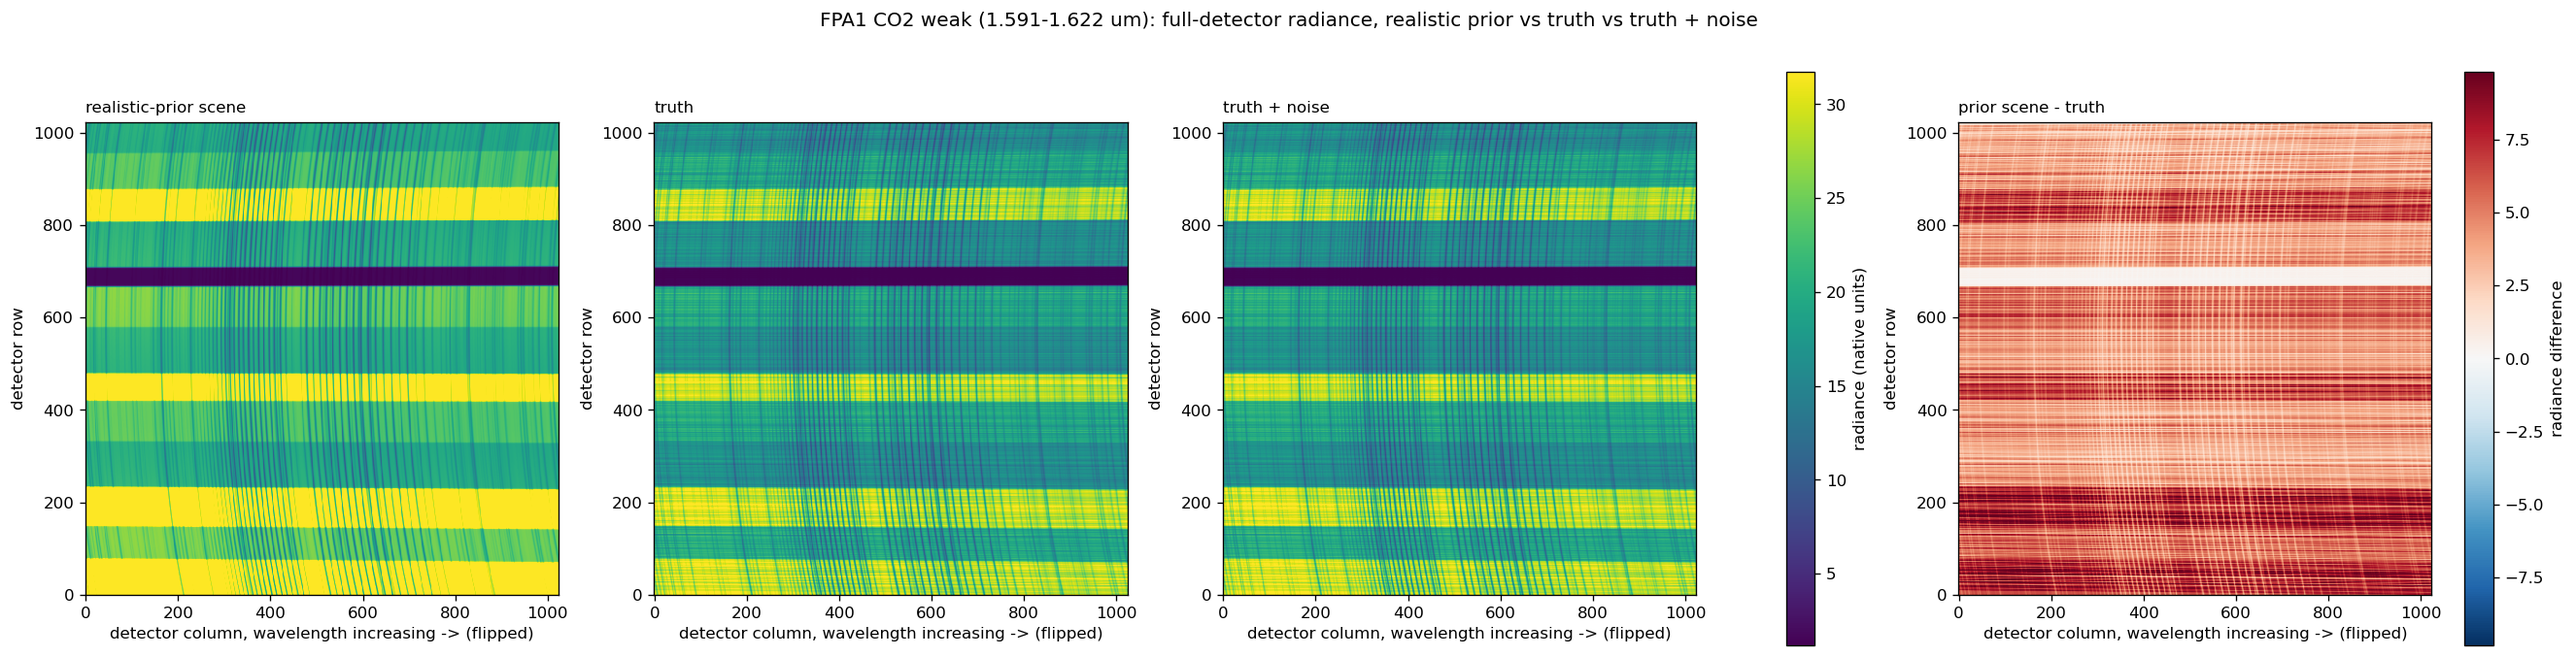
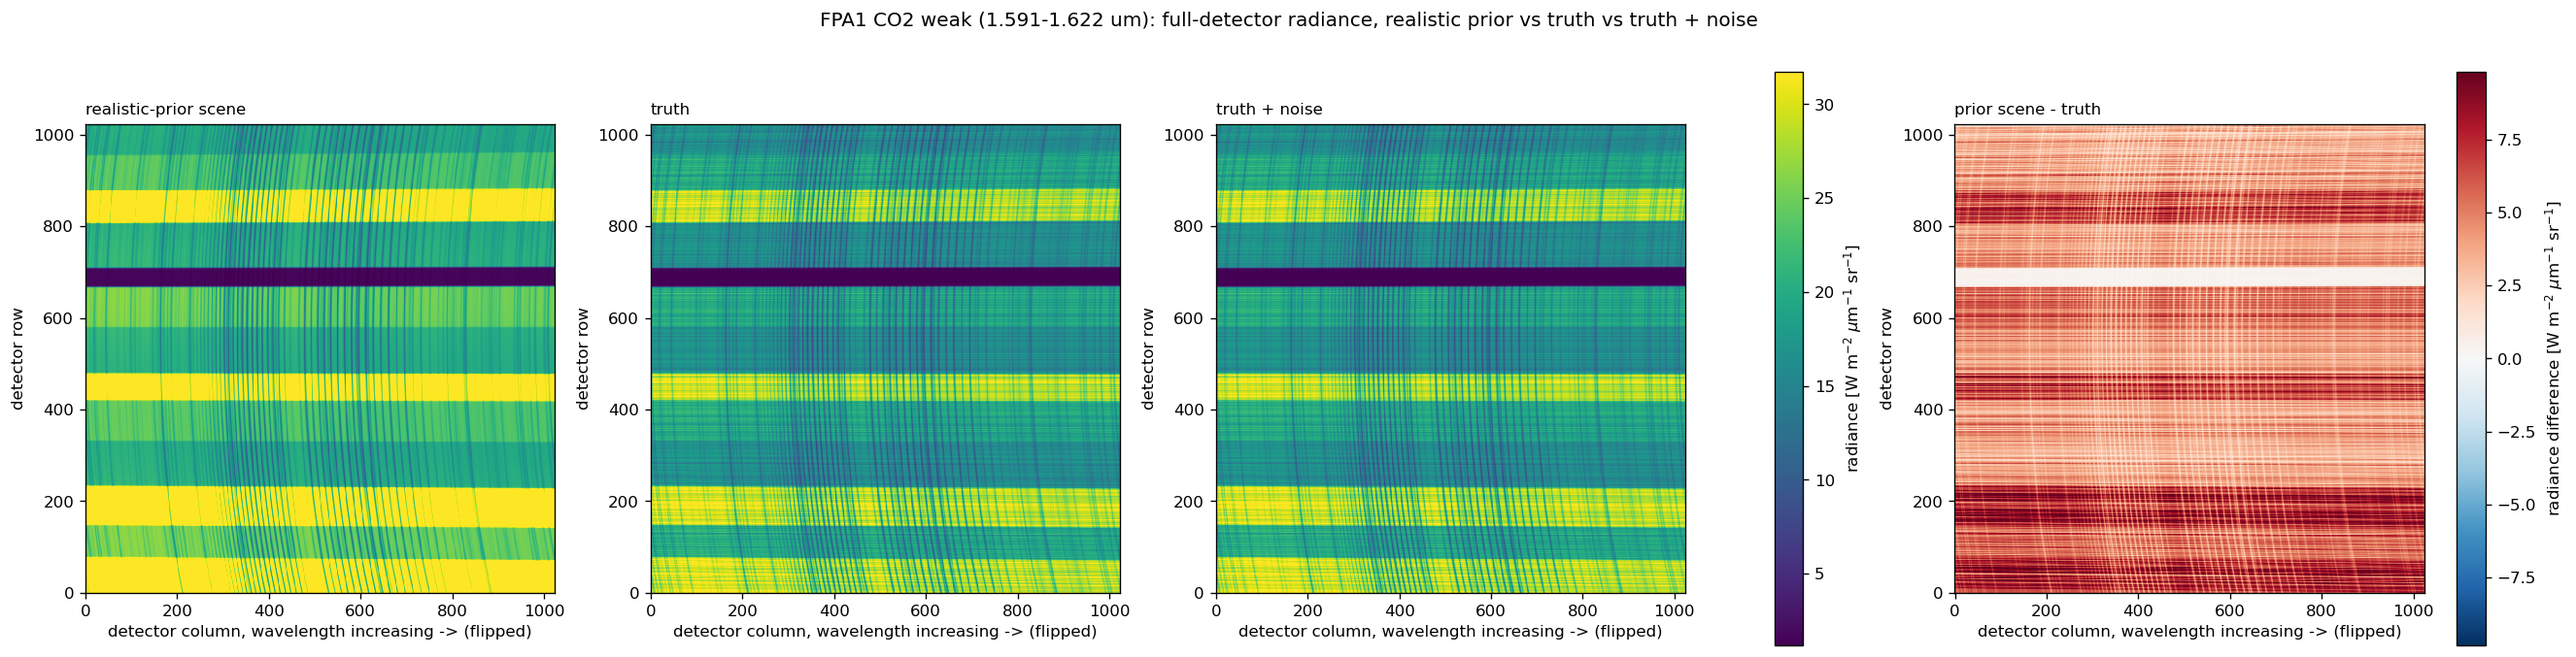
FPA images: label radiance in W m^-2 um^-1 sr^-1
Claude-Session: https://claude.ai/code/session_01F6HLSeGTXguZfKDC2CaZzV

Changed region(s): [[0.0, 0.0931, 1.0, 0.9926], [0.0, 0.7445, 0.0309, 0.7755], [0.0, 0.4653, 0.0309, 0.4963]]

diff --git a/scripts/plot_fpa_images.py b/scripts/plot_fpa_images.py
@@ -4,6 +4,7 @@ results/fpa_images/. One figure per FPA (plots/fpa_images_fpa<n>.png), shared co
 truth image's 1st-99th percentile so the three panels are directly comparable; plus a
 prior-minus-truth panel. Image index is [detector row, detector column]; columns are flipped for FPA1/FPA3 (reversed dispersion) so
 wavelength increases left->right in every FPA.
+Radiance units: W m^-2 um^-1 sr^-1 (gert convention, geocarb_gert/radiometry.py).
     PYTHONPATH=.:<gert> python scripts/plot_fpa_images.py
 """
 import sys
@@ -39,13 +40,13 @@ for f in range(4):
     for a, (k, t) in zip(axs[:3], (("prior", "realistic-prior scene"), ("truth", "truth"), ("noise", "truth + noise"))):
         im = a.imshow(img[k], origin="lower", cmap="viridis", vmin=lo, vmax=hi, aspect="equal", interpolation="nearest")
         a.set_title(t, loc="left", fontsize=10)
-    fig.colorbar(im, ax=list(axs[:3]), shrink=0.9, label="radiance (native units)")
+    fig.colorbar(im, ax=list(axs[:3]), shrink=0.9, label="radiance [W m$^{-2}$ $\\mu$m$^{-1}$ sr$^{-1}$]")
     diff = img["prior"] - img["truth"]
     v = np.percentile(np.abs(diff), 99) or 1.0
     a = axs[3]
     im2 = a.imshow(diff, origin="lower", cmap="RdBu_r", vmin=-v, vmax=v, aspect="equal", interpolation="nearest")
     a.set_title("prior scene - truth", loc="left", fontsize=10)
-    fig.colorbar(im2, ax=a, shrink=0.9, label="radiance difference")
+    fig.colorbar(im2, ax=a, shrink=0.9, label="radiance difference [W m$^{-2}$ $\\mu$m$^{-1}$ sr$^{-1}$]")
     for a in axs:
         a.set_xlabel("detector column, wavelength increasing ->" + ("" if asc else " (flipped)"))
         a.set_ylabel("detector row")
